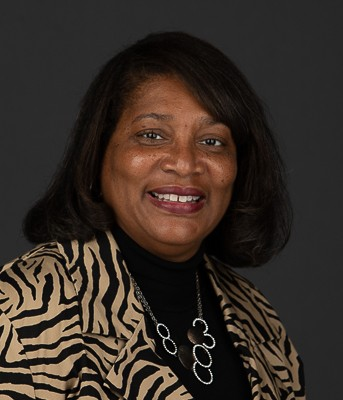
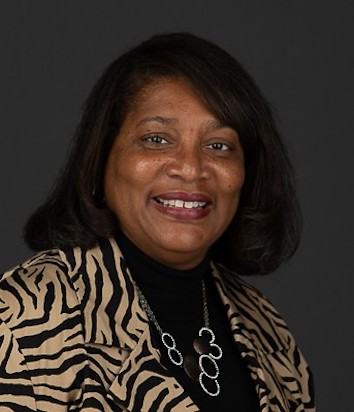
changed founders photo sizes on the about page

diff --git a/frontend/src/components/static_pages/about.css b/frontend/src/components/static_pages/about.css
@@ -24,16 +24,19 @@
 
 #kim-image {
   margin-top: 90px;
+  margin-bottom: 30px;
   height: 350px;
 }
 
 #pierre-image {
-  margin-top: 45px;
+  margin-top: 30px;
   margin-bottom: 30px;
+  height: 350px;
 }
 
 #shirley-image {
   margin-top: 30px;
+  height: 355px;
 }
 
 .about-heading {
